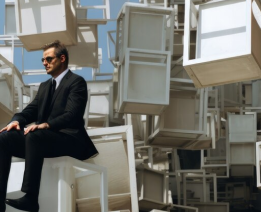
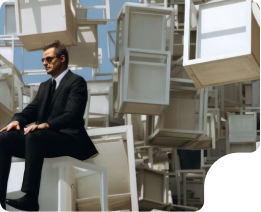
Added posts carousel

Changed region(s): [[0.0, 0.1132, 1.0, 1.0], [0.9502, 0.0, 1.0, 0.0566], [0.0, 0.0, 0.0307, 0.0283]]

diff --git a/index.html b/index.html
@@ -367,47 +367,41 @@
       >
         <h2 class="text-2xl mb-[26px]" x-html="lisezNosArticles"></h2>
       </div>
-      <div>
-        <article
-          x-data="{
-          article1H3: 'Manipulation des informations',
-          article1Paragraphe: `Déclarations des opérateurs
-          de plateformes en ligne et
-          questionnaires de l'Arcom.`,
-          article1Bouton: 'Article 1',
-          lienArticle: 'https://www.arcom.fr/internet-et-reseaux-sociaux/lutte-contre-la-manipulation-de-linformation-declarations-des-operateurs-de-plateformes-en-ligne-et-questionnaires-de-larcom'
-          }"
-        >
-          <div class="inline-block relative">
-            <figure>
-              <img
-                src="./public/img/articles/image.png"
-                alt="Illustration vectorisée représentant un ordinateur et des informations."
-              />
-            </figure>
-            <div class="absolute bottom-0 right-0 bg-white p-1.5 rounded-tl-xl">
+      <div
+        x-data="postsSlider"
+        class="overflow-auto grid grid-flow-col gap-[69px] py-10"
+      >
+        <template x-for="(post, index) in posts" :key="index">
+          <article class="min-w-[253px]">
+            <div class="inline-block relative">
+              <figure>
+                <img
+                  :src="post.imageLink"
+                  alt="Illustration vectorisée représentant un ordinateur et des informations."
+                />
+              </figure>
               <a
-                x-bind:href="lienArticle"
-                class="w-[51px] h-[51px] rounded-full bg-pink grid place-items-center"
+                :href="post.postLink"
                 target="_blank"
                 rel="noopener noreferrer"
+                class="w-[51px] h-[51px] bg-pink rounded-full grid place-items-center absolute bottom-0 right-0 z-10 transition-all duration-300 ease-in-out hover:bg-lightBlue"
               >
                 <figure>
-                  <img src="./public/img/pictogrammes/Vector.svg" alt="" />
+                  <img :src="post.buttonImg" alt="" />
                 </figure>
               </a>
             </div>
-          </div>
-          <h3 class="text-lg mb-2 bold" x-text="article1H3"></h3>
-          <p class="text-sm" x-text="article1Paragraphe"></p>
-          <a
-            x-bind:href="lienArticle"
-            x-text="article1Bouton"
-            class="bg-blue text-white text-[13px] rounded-[36px] py-[10px] px-[21px]"
-            target="_blank"
-            rel="noopener noreferrer"
-          ></a>
-        </article>
+            <h3 class="text-lg mb-2 bold" x-text="post.title"></h3>
+            <p class="text-sm mb-[25px]" x-text="post.excerpt"></p>
+            <a
+              :href="post.postLink"
+              x-text="post.buttonText"
+              class="bg-blue text-white text-[13px] rounded-[36px] py-[10px] px-[21px] transition-all duration-300 hover:bg-pink"
+              target="_blank"
+              rel="noopener noreferrer"
+            ></a>
+          </article>
+        </template>
       </div>
     </section>
 

diff --git a/css/style.css b/css/style.css
@@ -630,6 +630,10 @@ video {
   z-index: 50;
 }
 
+.z-10 {
+  z-index: 10;
+}
+
 .col-span-2 {
   grid-column: span 2 / span 2;
 }
@@ -692,6 +696,10 @@ video {
 
 .mb-2\.5 {
   margin-bottom: 0.625rem;
+}
+
+.mb-\[10px\] {
+  margin-bottom: 10px;
 }
 
 .block {
@@ -786,6 +794,10 @@ video {
   width: 80vw;
 }
 
+.w-\[59px\] {
+  width: 59px;
+}
+
 .min-w-\[300px\] {
   min-width: 300px;
 }
@@ -794,8 +806,16 @@ video {
   min-width: 326px;
 }
 
+.min-w-\[253px\] {
+  min-width: 253px;
+}
+
 .max-w-\[300px\] {
   max-width: 300px;
+}
+
+.max-w-\[253px\] {
+  max-width: 253px;
 }
 
 .flex-none {
@@ -819,6 +839,10 @@ video {
 
 .cursor-pointer {
   cursor: pointer;
+}
+
+.grid-flow-row {
+  grid-auto-flow: row;
 }
 
 .grid-flow-col {
@@ -871,6 +895,10 @@ video {
 
 .gap-\[69px\] {
   gap: 69px;
+}
+
+.gap-6 {
+  gap: 1.5rem;
 }
 
 .gap-x-\[8px\] {
@@ -928,6 +956,10 @@ video {
 
 .rounded-lg {
   border-radius: 0.5rem;
+}
+
+.rounded {
+  border-radius: 0.25rem;
 }
 
 .rounded-b-xl {
@@ -1029,6 +1061,16 @@ video {
 .py-\[7px\] {
   padding-top: 7px;
   padding-bottom: 7px;
+}
+
+.py-6 {
+  padding-top: 1.5rem;
+  padding-bottom: 1.5rem;
+}
+
+.py-10 {
+  padding-top: 2.5rem;
+  padding-bottom: 2.5rem;
 }
 
 .pl-6 {
@@ -1180,6 +1222,16 @@ video {
 
 .ease-in-out {
   transition-timing-function: cubic-bezier(0.4, 0, 0.2, 1);
+}
+
+.hover\:bg-lightBlue:hover {
+  --tw-bg-opacity: 1;
+  background-color: rgb(135 192 234 / var(--tw-bg-opacity, 1));
+}
+
+.hover\:bg-pink:hover {
+  --tw-bg-opacity: 1;
+  background-color: rgb(227 119 146 / var(--tw-bg-opacity, 1));
 }
 
 .group:hover .group-hover\:bg-lightBlue {

diff --git a/js/app.js b/js/app.js
@@ -31,6 +31,29 @@ document.addEventListener("alpine:init", () => {
     },
   }));
 
+  Alpine.data("postsSlider", () => ({
+    posts: [
+      {
+        title: "Manipulation des informations",
+        excerpt:
+          "Déclarations des opérateurs de plateformes en ligne et questionnaires de l'Arcom.",
+        buttonText: "Article 1",
+        buttonImg: "./public/img/pictogrammes/Vector.svg",
+        imageLink: "./public/img/articles/image.png",
+        link: "https://www.arcom.fr/internet-et-reseaux-sociaux/lutte-contre-la-manipulation-de-linformation-declarations-des-operateurs-de-plateformes-en-ligne-et-questionnaires-de-larcom",
+      },
+      {
+        title: "Manipulation des informations",
+        excerpt:
+          "Déclarations des opérateurs de plateformes en ligne et questionnaires de l'Arcom.",
+        buttonText: "Article 1",
+        buttonImg: "./public/img/pictogrammes/Vector.svg",
+        imageLink: "./public/img/articles/image.png",
+        link: "https://www.arcom.fr/internet-et-reseaux-sociaux/lutte-contre-la-manipulation-de-linformation-declarations-des-operateurs-de-plateformes-en-ligne-et-questionnaires-de-larcom",
+      },
+    ],
+  }));
+
   Alpine.data("cardsSlider", () => ({
     cardsTitles: ["Pourquoi ?", "Les impacts", "Ensemble", "Conseils"],
     cardsInformation: [

diff --git a/readme.md b/readme.md
@@ -35,3 +35,11 @@ Tester la présence des favicons en local :
 `npx tailwindcss init`
 
 `npx tailwindcss -i ./tailwind.css -o ./css/style.css --watch`
+
+## Déploiement automatique
+
+[https://artevia.netlify.app/](https://artevia.netlify.app/)
+
+## Alpine versionning
+
+As we're using this script to use Alpine `<script src="//unpkg.com/alpinejs" defer></script>` we always use the latest version.
